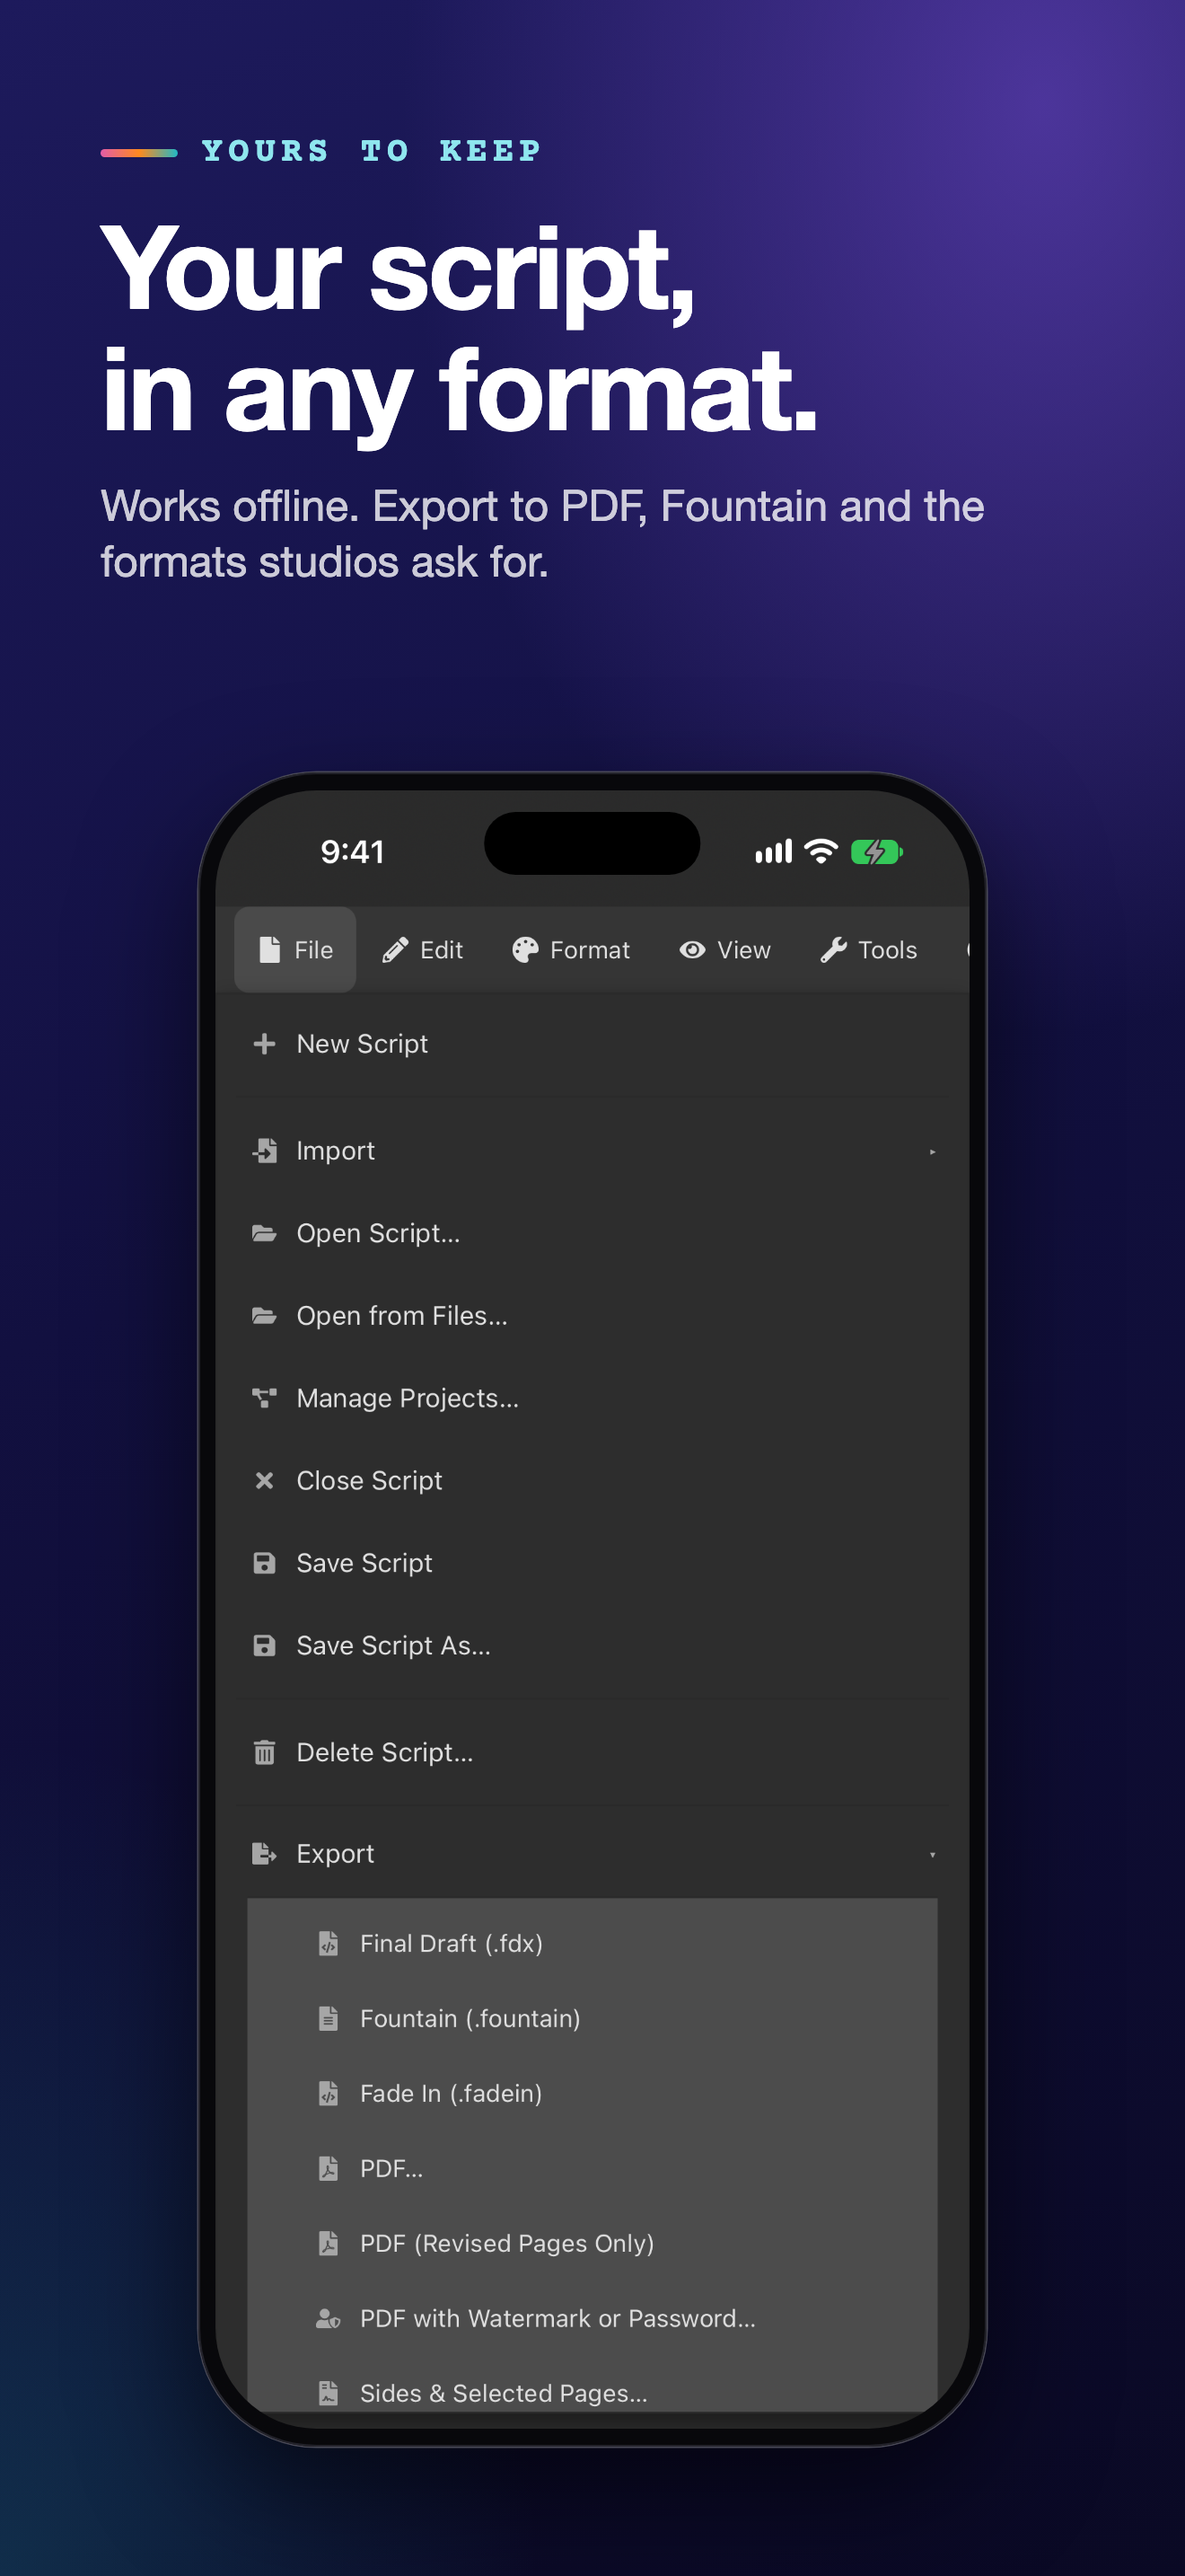
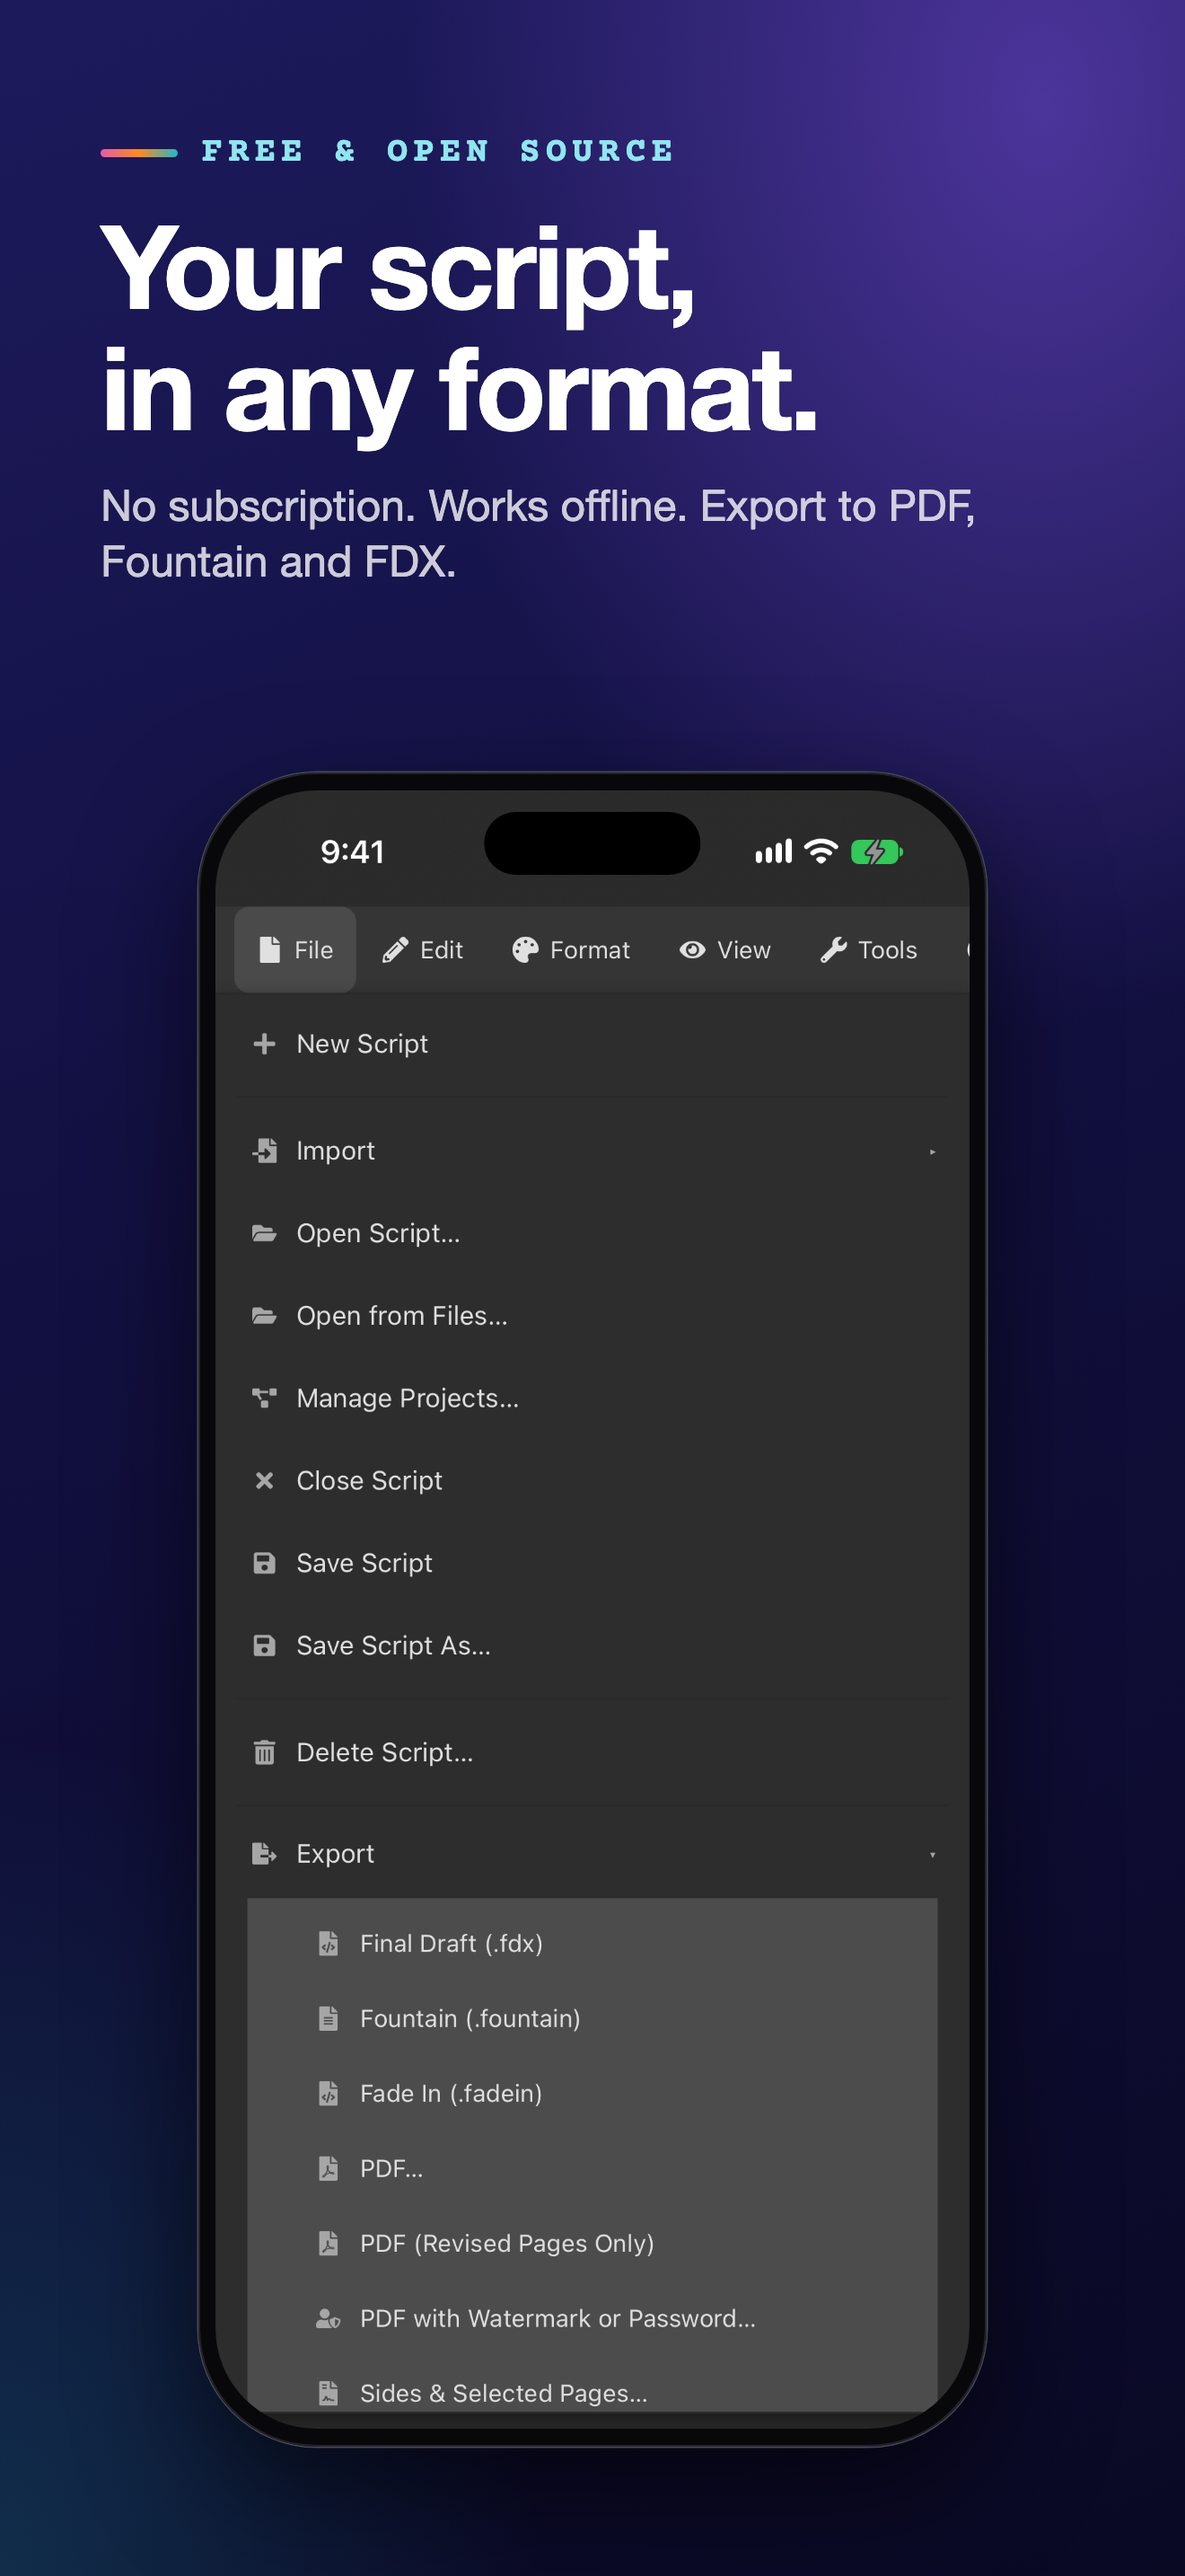
Refresh store keywords and screenshots, add Google Play phone screenshots
Keyword fields are 100 characters each, with no repeats of the name or
subtitle and no competitor names. Apple captions now say "Screenwriting app"
and "Free & open source". New Google Play phone set (1080x2160) in
images/playstore/phone, built by android_capture.py and compose.py play-phone.

diff --git a/test-script/appstore/compose.py b/test-script/appstore/compose.py
@@ -35,7 +35,12 @@ SIZES = {
     "iphone-medium": (1206, 2622),
     "duo": (2853, 2007),
     "ipad": (2064, 2752),
+    # Google Play: no side may be more than twice the other, so this is the tallest phone canvas it takes.
+    "play-phone": (1080, 2160),
 }
+
+# Where each set is written. Apple sets go under images/appstore/<set>; Play's under images/playstore/.
+OUT_DIR = {"play-phone": ROOT / "images" / "playstore" / "phone"}
 
 CSS = """
 @font-face { font-family: 'Courier Prime'; font-weight: 700; src: url('%(font)s'); }
@@ -111,6 +116,18 @@ def tablet(name: str, left: float, top: float, width: float) -> str:
     )
 
 
+def android_phone(name: str, left: float, top: float, width: float) -> str:
+    """A generic Android phone: thinner bezel and corner than the iPhone, a punch-hole camera."""
+    pad, radius = width * 0.02, width * 0.085
+    hole = width * 0.036
+    return (
+        f'<div class="dev" style="left:{left}px;top:{top}px;width:{width}px;padding:{pad}px;border-radius:{radius}px">'
+        f'<img class="screen" src="{raw(name)}" style="border-radius:{radius - pad}px">'
+        f'<div class="camera" style="left:calc(50% - {hole / 2}px);top:{pad + width * 0.024}px;width:{hole}px;height:{hole}px"></div>'
+        "</div>"
+    )
+
+
 def duo_open(name: str, left: float, top: float, width: float, crease: str = "v") -> str:
     """The Duo's inner screen. `crease` is 'v' held as a book, 'h' as a laptop."""
     short = width * (2007 / 2853) if crease == "v" else width
@@ -155,13 +172,13 @@ def mark(left: float, top: float, size: float) -> str:
 
 # No prices and no competitor names in captions: App Review guideline 2.3.7 covers screenshots too.
 CAPTIONS = {
-    "write": ("Fade in", "Write your\nscreenplay.", "Industry-standard formatting that takes care of itself."),
+    "write": ("Screenwriting app", "Write your\nscreenplay.", "Free screenwriting software. Industry-standard script formatting that takes care of itself."),
     "tableread": ("Table Read", "Hear every line\nread aloud.", "A voice for each character, with every word lit as it is spoken."),
     "cards": ("Index Cards", "See your story\nscene by scene.", "Colour-coded cards with a synopsis, a page count and a running time."),
     "outline": ("Outline", "Shape the\nwhole script.", "Acts, sequences and scenes in one list. Drag a scene to move it."),
     "navigator": ("Navigator", "Jump to\nany scene.", "Every scene with its synopsis, one tap away."),
     "duo": ("iPhone Duo", "Folded or open,\nit fits.", "OpenDraft lays itself out for each way you hold your iPhone Duo."),
-    "free": ("Yours to keep", "Your script,\nin any format.", "Works offline. Export to PDF, Fountain and the formats studios ask for."),
+    "free": ("Free & open source", "Your script,\nin any format.", "No subscription. Works offline. Export to PDF, Fountain and FDX."),
 }
 
 
@@ -172,6 +189,17 @@ def portrait_page(key: str, device: str, width: int, height: int) -> str:
     text = copy(eyebrow, headline, body, side, height * 0.052, width - 2 * side, width * 0.098)
     device_width = width * 0.665  # as tall as fits under the caption without leaving the canvas
     return text + phone(device, (width - device_width) / 2, height * 0.30, device_width)
+
+
+def android_portrait_page(key: str, device: str, width: int, height: int) -> str:
+    """Play-store canvas: caption on top, one Android phone under it, sized to end near the bottom edge."""
+    eyebrow, headline, body = CAPTIONS[key]
+    side = width * 0.085
+    text = copy(eyebrow, headline, body, side, height * 0.05, width - 2 * side, width * 0.098)
+    top = height * 0.27
+    # the capture is 1280x2856, so the device is about 2.27 times as tall as it is wide, bezel included
+    device_width = min(width * 0.70, (height * 0.985 - top) / 2.27)
+    return text + android_phone(device, (width - device_width) / 2, top, device_width)
 
 
 def duo_on_phone_page(width: int, height: int) -> str:
@@ -248,6 +276,18 @@ def build_pages() -> dict:
         ("03-index-cards", tablet_page("cards", "ipad-04-cards", w, h)),
         ("04-navigator", tablet_page("navigator", "ipad-02-navigator", w, h)),
     ]
+
+    # Captured from the Android emulator by android_shot.py; skipped until they exist so the Apple sets still build.
+    if (RAW / "android-01-editor.png").exists():
+        w, h = SIZES["play-phone"]
+        pages["play-phone"] = [
+            ("01-write", android_portrait_page("write", "android-01-editor", w, h)),
+            ("02-table-read", android_portrait_page("tableread", "android-02-tableread", w, h)),
+            ("03-index-cards", android_portrait_page("cards", "android-03-cards", w, h)),
+            ("04-outline", android_portrait_page("outline", "android-04-outline", w, h)),
+            ("05-navigator", android_portrait_page("navigator", "android-05-navigator", w, h)),
+            ("06-free", android_portrait_page("free", "android-06-export", w, h)),
+        ]
     return pages
 
 
@@ -262,7 +302,7 @@ def render(wanted: list) -> int:
                 if wanted and set_name not in wanted:
                     continue
                 width, height = SIZES[set_name]
-                target = OUT / set_name
+                target = OUT_DIR.get(set_name, OUT / set_name)
                 target.mkdir(parents=True, exist_ok=True)
                 page = browser.new_page(viewport={"width": width, "height": height}, device_scale_factor=1)
                 for file_name, markup in items:
@@ -295,4 +335,4 @@ if __name__ == "__main__":
         sys.exit(f"compose failed: {error}")
     if not count:
         sys.exit(f"no set matched {sys.argv[1:]}; choose from {list(SIZES)}")
-    print(f"{count} images in {OUT}")
+    print(f"{count} images written")

diff --git a/test-script/appstore/android_capture.py b/test-script/appstore/android_capture.py
@@ -1,0 +1,152 @@
+#!/usr/bin/env python3
+"""Capture the Google Play phone screenshots from a running Android emulator.
+
+    venv/bin/python test-script/appstore/android_capture.py [--serial emulator-5560]
+    venv/bin/python test-script/appstore/compose.py play-phone
+
+Writes test-script/output/appstore/raw/android-0N-*.png, which compose.py frames
+and captions into images/playstore/phone/.
+
+Needs a DEBUG build of the current code installed on the emulator (see
+docs/RELEASE.md / "Local Android development"), and the emulator to be the only
+OpenDraft install you care about: the app is force-stopped and its open script
+replaced by "The Last Reel". Two things are set so the shots look right:
+
+  - the system's dark theme. OpenDraft's bars are dark, and the activity picks
+    its status-bar icon colour from the system theme when it starts, so in the
+    system's light theme the clock and battery come out dark on dark.
+  - the system demo mode, for a 9:41 clock and a full battery.
+
+Table Read is captured idle: an emulator has no speech engine, so playing it
+shows a spinner and highlights nothing.
+"""
+import subprocess
+import sys
+import time
+from pathlib import Path
+
+HERE = Path(__file__).resolve().parent
+sys.path.insert(0, str(HERE))
+sys.path.insert(0, str(HERE.parent / "ios_smoke"))
+import android_shot  # noqa: E402
+from android_cdp import ADB, AndroidWebView, JavaScriptError, PACKAGE, adb  # noqa: E402
+
+LIB = android_shot.LIB
+RAW = android_shot.RAW
+
+
+class Driver:
+    def __init__(self, serial: str, port: int):
+        self.serial = serial
+        self.view = AndroidWebView(serial=serial, port=port)
+
+    def js(self, expression: str) -> str:
+        return self.view.evaluate(f"(() => {{\n{LIB}\nreturn {expression};\n}})()")
+
+    def click(self, selector: str, label: str, *, required: bool = True) -> str:
+        reply = self.js(f"od.click({selector!r}, {label!r})")
+        if required and reply.startswith("NOT FOUND"):
+            raise RuntimeError(f"could not click {label!r}: {reply}")
+        return reply
+
+    def shot(self, name: str) -> None:
+        RAW.mkdir(parents=True, exist_ok=True)
+        self.view.screenshot(str(RAW / f"{name}.png"))
+        print(f"  captured {name}")
+
+    def menu(self, *path: str) -> None:
+        """File > Export, View > Panels > Outline… — top-level item first, then each dropdown row."""
+        self.click(".menu-item", path[0])
+        for label in path[1:]:
+            time.sleep(0.8)
+            self.click(".menu-dropdown-item", label)
+        time.sleep(1.5)
+
+    def close_menu(self) -> None:
+        # The menu bar item toggles its dropdown, so a second tap on the open one closes it.
+        self.js("(document.querySelector('.menu-item.active')?.dispatchEvent(new MouseEvent('click',{bubbles:true})), 'ok')")
+
+
+def prepare(serial: str) -> None:
+    for key in ("window_animation_scale", "transition_animation_scale", "animator_duration_scale"):
+        adb("shell", "settings", "put", "global", key, "0", serial=serial)
+    adb("shell", "cmd", "uimode", "night", "yes", serial=serial)
+    adb("shell", "am", "force-stop", PACKAGE, serial=serial)
+    adb("shell", "am", "start", "-n", f"{PACKAGE}/.MainActivity", serial=serial)
+    time.sleep(10)
+    android_shot.demo_mode(serial, True)
+
+
+def run(serial: str, port: int) -> None:
+    prepare(serial)
+    d = Driver(serial, port)
+    d.view.connect(60)
+
+    # The first launch asks how to start; a later one may offer to restore the last session.
+    d.click("button.welcome-choice-btn", "📄 Blank Document", required=False)
+    time.sleep(1.5)
+    d.click("button", "Discard", required=False)
+    time.sleep(1)
+    print(d.js(android_shot.load_expression()))
+    d.js("od.caretAt('Dust drifts', 'start')")
+    time.sleep(1)
+
+    print("1/6 editor")
+    d.shot("android-01-editor")
+
+    print("2/6 Table Read")
+    d.menu("Tools", "Table Read")
+    time.sleep(3)
+    d.shot("android-02-tableread")
+    d.js("([...document.querySelectorAll('.table-read-icon-btn')].pop()?.click(), 'closed')")
+    time.sleep(1)
+
+    print("3/6 index cards")
+    d.menu("View", "Panels", "Index Cards")
+    time.sleep(3)
+    d.shot("android-03-cards")
+    d.js("(document.querySelector('.ic-close-btn')?.click(), document.querySelector('.panel-close-btn')?.click(), 'closed')")
+    time.sleep(1)
+
+    print("4/6 outline")
+    d.menu("View", "Panels", "Outline")
+    time.sleep(3)
+    d.shot("android-04-outline")
+    d.menu("View", "Panels", "✓ Outline")  # the open panel is ticked; choosing it again closes it
+    time.sleep(1)
+
+    print("5/6 navigator")
+    d.menu("View", "Panels", "Navigator")
+    time.sleep(3)
+    d.shot("android-05-navigator")
+    d.js("(document.querySelector('.navigator-close')?.click(), 'closed')")
+    time.sleep(1)
+
+    print("6/6 export menu")
+    d.menu("File", "Export")
+    d.shot("android-06-export")
+    d.close_menu()
+    d.view.close()
+
+
+def main(argv: list) -> int:
+    serial, port = "emulator-5560", 9334
+    while argv:
+        flag = argv.pop(0)
+        if flag == "--serial":
+            serial = argv.pop(0)
+        elif flag == "--port":
+            port = int(argv.pop(0))
+        else:
+            print(__doc__)
+            return 2
+    try:
+        run(serial, port)
+    except (RuntimeError, JavaScriptError, OSError, ConnectionError, subprocess.SubprocessError) as error:
+        print(f"capture failed: {error}", file=sys.stderr)
+        return 1
+    return 0
+
+
+if __name__ == "__main__":
+    sys.exit(main(sys.argv[1:]))

diff --git a/test-script/appstore/android_shot.py b/test-script/appstore/android_shot.py
@@ -1,0 +1,107 @@
+#!/usr/bin/env python3
+"""Drive the OpenDraft Android emulator for Google Play screenshots.
+
+    android_shot.py status-bar on|off      clean clock/battery/signal for captures (system demo mode)
+    android_shot.py load                   load "The Last Reel" into the open editor
+    android_shot.py eval '<js expression>' run JavaScript in the app (lib.js helpers are under `od.`)
+    android_shot.py file path/to/snippet.js
+    android_shot.py shot <name>            -> test-script/output/appstore/raw/<name>.png
+
+Options (before the command):  --serial emulator-5556   --port 9334
+
+Needs a DEBUG build installed on the emulator, because only a debuggable
+WebView opens a DevTools socket. Uses its own forwarded port (9334) so it can
+run beside other adb/DevTools sessions (the iOS/Android smoke test uses 9333).
+
+The DevTools plumbing is test-script/ios_smoke/android_cdp.py.
+"""
+import json
+import sys
+from pathlib import Path
+
+HERE = Path(__file__).resolve().parent
+ROOT = HERE.parent.parent
+sys.path.insert(0, str(ROOT / "test-script" / "ios_smoke"))
+sys.path.insert(0, str(HERE))
+from android_cdp import AndroidWebView, JavaScriptError, adb  # noqa: E402
+from demo_script import load_expression  # noqa: E402
+
+RAW = ROOT / "test-script" / "output" / "appstore" / "raw"
+LIB = (HERE / "lib.js").read_text()
+
+
+def demo_mode(serial, on: bool) -> None:
+    """The system's own demo mode: fixed 9:41 clock, full battery, no notification icons."""
+    if not on:
+        adb("shell", "am", "broadcast", "-a", "com.android.systemui.demo", "-e", "command", "exit", serial=serial)
+        return
+    adb("shell", "settings", "put", "global", "sysui_demo_allowed", "1", serial=serial)
+    for args in (
+        ["-e", "command", "enter"],
+        ["-e", "command", "clock", "-e", "hhmm", "0941"],
+        ["-e", "command", "battery", "-e", "level", "100", "-e", "plugged", "false"],
+        ["-e", "command", "network", "-e", "wifi", "show", "-e", "level", "4", "-e", "fully", "true"],
+        ["-e", "command", "network", "-e", "mobile", "hide"],
+        ["-e", "command", "notifications", "-e", "visible", "false"],
+    ):
+        adb("shell", "am", "broadcast", "-a", "com.android.systemui.demo", *args, serial=serial)
+
+
+def main(argv: list) -> int:
+    serial, port = None, 9334
+    while argv and argv[0].startswith("--"):
+        flag = argv.pop(0)
+        if flag == "--serial":
+            serial = argv.pop(0)
+        elif flag == "--port":
+            port = int(argv.pop(0))
+        else:
+            print(f"unknown option {flag}", file=sys.stderr)
+            return 2
+    if not argv:
+        print(__doc__)
+        return 2
+    command, rest = argv[0], argv[1:]
+
+    if command == "status-bar":
+        if rest not in (["on"], ["off"]):
+            print("usage: status-bar on|off", file=sys.stderr)
+            return 2
+        demo_mode(serial, rest == ["on"])
+        return 0
+
+    view = AndroidWebView(serial=serial, port=port)
+    try:
+        if command == "shot":
+            if not rest:
+                print("usage: shot <name>", file=sys.stderr)
+                return 2
+            RAW.mkdir(parents=True, exist_ok=True)
+            out = RAW / f"{rest[0]}.png"
+            view.screenshot(str(out))
+            print(f"wrote {out}")
+            return 0
+        # An expression is returned as it is; a file is a function body and returns for itself.
+        if command == "load":
+            body = f"return {load_expression()};"
+        elif command == "eval" and rest:
+            body = f"return {rest[0]};"
+        elif command == "file" and rest:
+            body = Path(rest[0]).read_text()
+        else:
+            print(__doc__)
+            return 2
+        print(view.evaluate(f"(() => {{\n{LIB}\n{body}\n}})()"))
+        return 0
+    except JavaScriptError as error:
+        print(f"JavaScript error: {error}", file=sys.stderr)
+        return 1
+    except (RuntimeError, OSError, ConnectionError, json.JSONDecodeError) as error:
+        print(f"android_shot failed: {error}", file=sys.stderr)
+        return 1
+    finally:
+        view.close()
+
+
+if __name__ == "__main__":
+    sys.exit(main(sys.argv[1:]))
